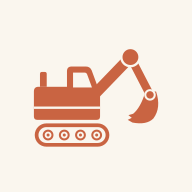
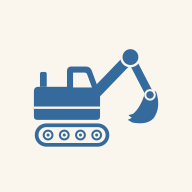
Add files via upload

Changed region(s): [[0.1562, 0.25, 0.8438, 0.7812]]

diff --git a/index.html b/index.html
@@ -20,7 +20,7 @@
  img.icon{width:96px;height:96px;border-radius:22px;box-shadow:0 4px 18px rgba(0,0,0,.12)}
  h1{font-size:22px;margin:16px 0 4px}
  p{line-height:1.45;color:#55534B}
- .go{display:inline-block;margin:14px 0 22px;background:#C15F3C;color:#fff;text-decoration:none;font-weight:600;padding:13px 26px;border-radius:12px;font-size:16px}
+ .go{display:inline-block;margin:14px 0 22px;background:#2F5D8C;color:#fff;text-decoration:none;font-weight:600;padding:13px 26px;border-radius:12px;font-size:16px}
  .card{background:#fff;border:1px solid #E6E1D4;border-radius:14px;padding:14px 16px;text-align:left;margin:12px 0}
  .card b{display:block;margin-bottom:6px}
  ol{margin:0;padding-left:20px;line-height:1.5}
